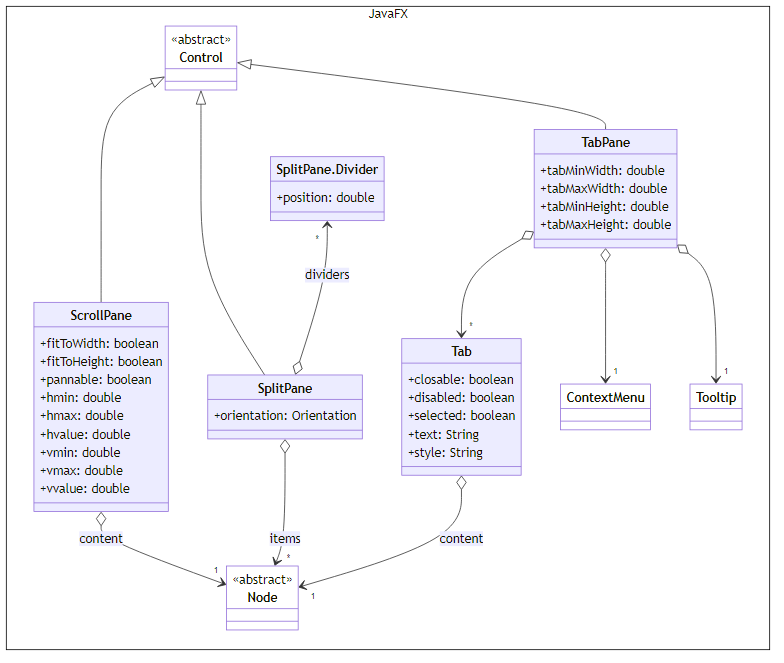
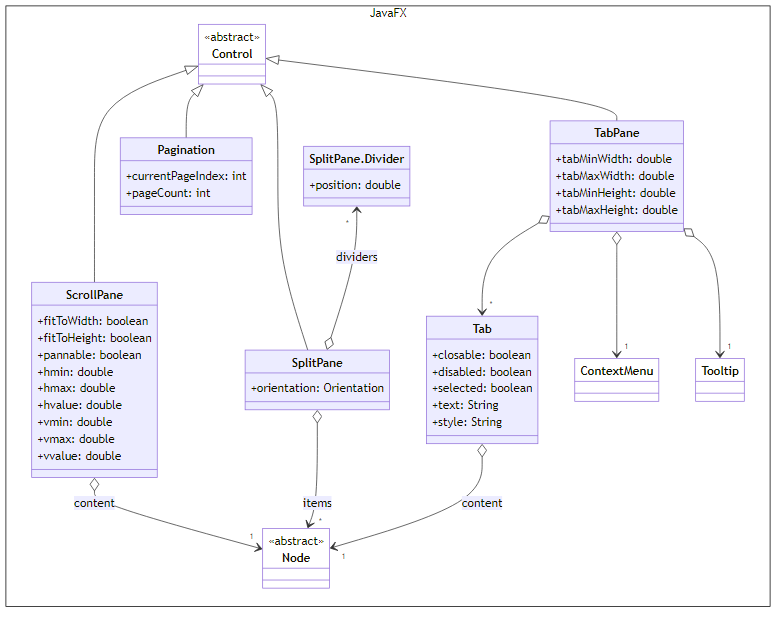
add some missing controls

diff --git a/Grundlagen/JavaFX.md b/Grundlagen/JavaFX.md
@@ -62,10 +62,12 @@ Panes:
 
 Controls:
 
-* `ScrollPane`, `SplitPane` und `TabPane`
+* `ScrollPane`, `SplitPane`, `TabPane` und `Pagination`
 * `MenuBar`, `ToolBar` und `ButtonBar`
 * `ListView`, `TableView`, `TreeView` und `TreeTableView`
 * `Label`, `Button`, `ToggleButton`, `MenuButton`, `Hyperlink` und `CheckBox`
+* `TextField` und `TextArea`
+* `ComboBox`, `DatePicker` und `ColorPicker`
 * `Spinner`, `Slider`, `ProgressIndictor` und `ChoiceBox`
 
 ## 1. `Application`, `Stage`, `Scene`, `Parent` und `Node`
@@ -189,7 +191,7 @@ TODO
 
 TODO
 
-### 9.1. `ScrollPane`, `SplitPane` und `TabPane`
+### 9.1. `ScrollPane`, `SplitPane`, `TabPane` und `Pagination`
 
 TODO
 
@@ -213,7 +215,19 @@ TODO
 
 ![](../Grafiken/JavaFX/Control.Labeled.svg)
 
-### 9.5. `Spinner`, `Slider`, `ProgressIndictor` und `ChoiceBox`
+### 9.5. `TextField` und `TextArea`
+
+TODO
+
+![](../Grafiken/JavaFX/Control.TextInput.svg)
+
+### 9.6. `ComboBox`, `DatePicker` und `ColorPicker`
+
+TODO
+
+![](../Grafiken/JavaFX/Control.ComboBox.svg)
+
+### 9.7. `Spinner`, `Slider`, `ProgressIndictor` und `ChoiceBox`
 
 TODO
 
